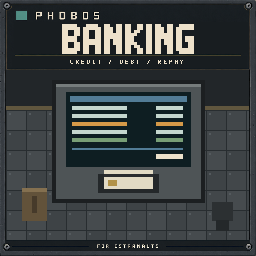
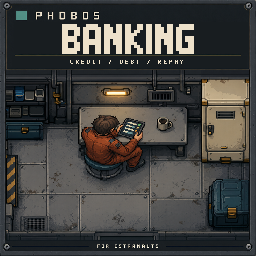
Create PhobosBank Workshop cover

diff --git a/scripts/export-bank-art.py b/scripts/export-bank-art.py
@@ -1,10 +1,10 @@
-"""Draw Phobos Banking's artwork deterministically: the CREDIT PDA icon and the Workshop cover's scene layer.
+"""Draw Phobos Banking's CREDIT PDA icon deterministically.
 
-No image generation and no game asset: every shape is drawn here from fixed coordinates, so the script is the
-master's source. The icon follows the game's own PDA icons (a white disc with a black glyph, 256 pixels square,
-tinted by the game); its master is drawn at 1024 pixels and reduced with Lanczos filtering. The cover scene is a
-244 x 170 pixel layer for scripts/compose-workshop-cover.py, drawn directly at that size in coarse pixel clusters.
-Use --check to compare committed outputs without writing.
+No image generation and no game asset: every icon shape is drawn here from fixed coordinates, so the script is
+the icon's source. The icon follows the game's own PDA icons (a white disc with a black glyph, 256 pixels square,
+tinted by the game); its master is drawn at 1024 pixels and reduced with Lanczos filtering. The Workshop cover's
+scene is generated artwork and is recorded in assets/workshop/composed.json.
+Use --check to compare committed icon outputs without writing.
 """
 import argparse
 import hashlib
@@ -18,9 +18,8 @@ from PIL import Image, ImageDraw
 ROOT = Path(__file__).resolve().parents[1]
 MASTER = 'assets/phobos-bank/Credit-1024.png'
 ICON = 'mods/PhobosBank/images/phobos/bank/Credit.png'
-SCENE = 'assets/workshop/sources/PhobosBank-scene.png'
 RECORD = 'assets/phobos-bank/exports.json'
-MASTER_SIZE, ICON_SIZE, SCENE_SIZE = 1024, 256, (244, 170)
+MASTER_SIZE, ICON_SIZE = 1024, 256
 WHITE, BLACK, CLEAR = (255, 255, 255, 255), (0, 0, 0, 255), (0, 0, 0, 0)
 
 
@@ -40,48 +39,6 @@ def icon_master():
     return image
 
 
-def scene():
-    """A station finance kiosk on a worn deck: a terminal showing ledger rows, one of them late, and a credit chit."""
-    w, h = SCENE_SIZE
-    image = Image.new('RGB', SCENE_SIZE, (52, 58, 62))
-    draw = ImageDraw.Draw(image)
-    # Deck plates with darker seams and a few worn patches.
-    for y in range(0, h, 20):
-        for x in range(0, w, 20):
-            shade = 62 + ((x * 7 + y * 13) // 20) % 3 * 4
-            draw.rectangle((x, y, x + 19, y + 19), fill=(shade, shade + 5, shade + 8))
-            draw.rectangle((x, y, x + 19, y), fill=(40, 45, 48))
-            draw.rectangle((x, y, x, y + 19), fill=(40, 45, 48))
-            draw.rectangle((x + 3, y + 3, x + 4, y + 4), fill=(84, 90, 94))
-    # The bulkhead and the kiosk housing.
-    draw.rectangle((0, 0, w - 1, 37), fill=(34, 38, 41))
-    draw.rectangle((0, 36, w - 1, 39), fill=(96, 86, 62))
-    draw.rectangle((46, 10, 198, 132), fill=(28, 31, 33))
-    draw.rectangle((50, 14, 194, 128), fill=(78, 84, 86))
-    draw.rectangle((50, 14, 194, 16), fill=(118, 124, 124))
-    # The screen: dark glass, a heading bar and ledger rows (pale rows paid, an amber row late).
-    draw.rectangle((60, 22, 184, 96), fill=(14, 30, 34))
-    draw.rectangle((64, 26, 180, 31), fill=(82, 124, 150))
-    rows = [(36, (196, 214, 206)), (44, (196, 214, 206)), (52, (212, 153, 72)), (60, (196, 214, 206)), (68, (120, 158, 118))]
-    for y, colour in rows:
-        draw.rectangle((66, y, 120, y + 3), fill=colour)
-        draw.rectangle((150, y, 176, y + 3), fill=colour)
-    draw.rectangle((66, 78, 176, 79), fill=(82, 124, 150))
-    draw.rectangle((150, 84, 176, 88), fill=(236, 226, 204))
-    # The credit chit in its reader beneath the screen.
-    draw.rectangle((92, 104, 152, 122), fill=(36, 40, 42))
-    draw.rectangle((98, 100, 146, 118), fill=(226, 218, 196))
-    draw.rectangle((98, 104, 146, 106), fill=(42, 44, 46))
-    draw.rectangle((102, 110, 110, 115), fill=(178, 146, 72))
-    # A crate of goods waiting on payment and a stool, for scale.
-    draw.rectangle((16, 118, 40, 150), fill=(98, 82, 58))
-    draw.rectangle((16, 118, 40, 121), fill=(132, 112, 80))
-    draw.rectangle((26, 126, 30, 142), fill=(70, 58, 42))
-    draw.rectangle((206, 132, 226, 150), fill=(44, 48, 50))
-    draw.rectangle((210, 150, 222, 160), fill=(36, 40, 42))
-    return image
-
-
 def png(image):
     buffer = io.BytesIO()
     image.save(buffer, format='PNG', optimize=True)
@@ -95,15 +52,14 @@ def sha256(data):
 def outputs():
     master = icon_master()
     icon = master.resize((ICON_SIZE, ICON_SIZE), Image.LANCZOS)
-    files = {MASTER: png(master), ICON: png(icon), SCENE: png(scene())}
+    files = {MASTER: png(master), ICON: png(icon)}
     record = {
         'schemaVersion': 1,
         'tool': 'scripts/export-bank-art.py',
         'generation': 'none: drawn from fixed shapes by the script, which is the source of record',
         'files': {path: {'sha256': sha256(data), 'bytes': len(data)} for path, data in files.items()},
         'notes': {
-            ICON: 'CREDIT PDA app icon, 256 px like the game\'s own; reduced from the 1024 px master with Lanczos filtering.',
-            SCENE: 'Placeholder scene layer for the held Workshop cover, composed by compose-workshop-cover.py.'
+            ICON: 'CREDIT PDA app icon, 256 px like the game\'s own; reduced from the 1024 px master with Lanczos filtering.'
         }
     }
     files[RECORD] = (json.dumps(record, indent=2) + '\n').encode('utf-8')

diff --git a/assets/workshop/README.md b/assets/workshop/README.md
@@ -1,14 +1,15 @@
 # Workshop preview artwork
 
-Eight coordinated cover illustrations for Phobos Framework, Auto Nav,
-Shipbreaker, Agriculture, Manufacturing, War Has Been Declared, Medical and Spacer Stories. These are promotional illustrations,
+Nine coordinated cover illustrations for Phobos Framework, Auto Nav,
+Shipbreaker, Agriculture, Manufacturing, War Has Been Declared, Medical,
+Spacer Stories and Banking. These are promotional illustrations,
 not gameplay screenshots or a claim of release readiness. Approach Assist and Phobos Scope
 are deliberately outside this set, as selected by the owner on 25 September 2026.
 The owner approved the original four-cover set and requested native-menu integration on the same day.
 
-The design connects each mod to the project's ambition of longer habitation in
-hostile space: shared dependable systems, careful navigation, material recovery
-and cultivation. It does not promise unlimited resources or perfect recycling.
+The designs connect different parts of life aboard: dependable systems, careful
+navigation, material recovery, cultivation, medical care, personal finances and
+crew stories. They do not promise unlimited resources or perfect recycling.
 
 ![The original four Phobos Workshop covers](previews/collection.png)
 
@@ -22,6 +23,7 @@ and cultivation. It does not promise unlimited resources or perfect recycling.
 | Phobos' War Has Been Declared | [512px](previews/PhobosWarDeclared-512.png) | [256px](previews/PhobosWarDeclared-256.png) | A torn hull with pale-blue build sites laid where parts were lost and two crew carrying a panel; composed cover (see below). An illustration of the idea, not a screenshot. |
 | Phobos Medical | [512px](previews/PhobosMedical-512.png) | [256px](previews/PhobosMedical-256.png) | A spacer resting in the Halewright Ward-3; REST / RECOVER / RETURN. Original promotional art, with no additional treatment claim. |
 | Phobos Spacer Stories | [512px](previews/PhobosSpacerStories-512.png) | [256px](previews/PhobosSpacerStories-256.png) | Two spacers sharing a story at a mess table, with correspondence, a terminal and a data card; READ / REMEMBER / RETELL. |
+| Phobos Banking | [512px](previews/PhobosBank-512.png) | [256px](previews/PhobosBank-256.png) | A working spacer checks the debt overview on their PDA; CREDIT / DEBT / REPAY. Original promotional art, not a gameplay screenshot. |
 
 ## Files and branches
 
@@ -65,15 +67,23 @@ its artwork; no affiliation or endorsement is implied. No extracted game texture
 game screenshot, third-party mod sprite or official logo was supplied to the
 generator or included in these covers.
 
-These complex cover compositions use ChatGPT's built-in image generation under
-the [asset policy's complex-art provision](../../docs/development/asset-generation-policy.md).
-PixelLab remains preferred for simple pixel assets. Its allowance was checked,
-but no PixelLab generation or credit purchase was made for this set. The built-in
-tool does not disclose a model revision, seed or per-image price; none is invented.
-Exact prompts, result identifiers and hashes are retained with this asset family.
-Generated imagery is original commissioned project artwork, subject to applicable
-[OpenAI terms](https://openai.com/policies/terms-of-use/); that provenance is not
-an independent guarantee of exclusive rights. No new licence is assigned here.
+The covers have mixed generated-art provenance. OpenAI's built-in image generation
+was used for the original covers, Medical and Spacer Stories; PixelLab produced the
+Manufacturing and War Has Been Declared scene layers. The Banking scene was generated
+with OpenAI's gpt-image-2 Image API through the bundled fallback CLI. Its exact
+prompt, input reference roles, model, source hashes and image-use record are in the
+[composition manifest](composed.json). The two style references were existing
+Phobos cover scenes; no game-derived artwork, screenshots, third-party mod sprites
+or official logos were supplied.
+
+OpenAI's [Services Agreement, sections 4.1 and 4.4](https://openai.com/policies/services-agreement/)
+states that API customers own Output, with OpenAI assigning any rights it has,
+subject to applicable law, and that Output may not be unique. This records the
+provider terms; it does not promise exclusivity. The CLI did not expose a request
+ID, seed or billed amount, so none is invented. The prior ElevenLabs Banking scene
+was commercially licensed per owner confirmation, but superseded at the owner's
+request and preserved with its original prompt and hash in the
+[rejected-artwork archive](../rejected-artwork-archive.md).
 
 Only mechanical nearest-neighbour resizing is applied to the masters. Typography
 is baked into this English-language promotional artwork, separate from the live
@@ -183,6 +193,34 @@ scene and thumbnail were visually checked; the 512px export is **553,381 bytes**
 The original four-cover exports and review sheet are unchanged. Ordinary builds
 include the committed preview and packaged provenance without needing the master
 branch. Creating this artwork does not install or publish the mod.
+
+## Banking: a composed cover
+
+On **7 October 2026**, OpenAI's gpt-image-2 Image API, through the bundled
+fallback CLI, generated one **1536 x 1072** cabin scene. The spacer checks a
+handheld debt ledger in the restrained overhead pixel-art treatment used by the
+vanilla game and the other Phobos covers. Existing Manufacturing and Medical
+scene layers were style references only; no game artwork or screenshots were
+provided. The unchanged master is on codex/workshop-art-masters, commit
+0eb04af487bd13ddcfb200a2c80ed19f5fd644ad, at
+assets/workshop/masters/PhobosBank-scene.png. The exact prompt, reference roles,
+master hash and OpenAI terms review are in [the composition manifest](composed.json).
+
+The composer reduces the full master to **304 x 170** with nearest-neighbour
+sampling, then takes a centred **244 x 170** crop for the cover scene. It reuses
+the existing Phobos frame, title and CREDIT / DEBT / REPAY subtitle, and writes
+both preview sizes plus mods/PhobosBank/preview.png. The 512px cover and 256px
+thumbnail were visually checked, including the PDA and title at small size. The
+scene illustrates a spacer reading their own debts; it is not a gameplay screenshot
+or evidence of in-game readiness. The cover and mod remain held for owner gameplay
+checks; creating the artwork does not publish the mod.
+
+The superseded **1920 x 1072** ElevenLabs scene is preserved on
+codex/rejected-artwork, with its request, archive reason and SHA-256 recorded in
+[the rejected-artwork archive](../rejected-artwork-archive.md) and
+[the composition manifest](composed.json). The owner confirmed a commercial
+license for that earlier generation; it was replaced solely because the owner
+asked for this OpenAI-generated, vanilla-style scene.
 
 ## Native-menu integration
 

diff --git a/assets/rejected-artwork-archive.md b/assets/rejected-artwork-archive.md
@@ -1,5 +1,17 @@
 # Rejected artwork archive
 
+## Banking cover refinement, 7 October 2026
+
+The first Phobos Banking scene, generated by ElevenLabs Creative Studio, was
+superseded when the owner requested a new OpenAI scene in the game's overhead
+pixel-art style. Its unchanged master was verified byte for byte in commit
+0def38b006d203ee7c733c7f65e444ce1628cb7b on codex/rejected-artwork. The owner
+confirmed commercial licensing for that generation; licensing was not the reason
+for replacement. The original prompt, provider record, reason and hash are retained
+in [the Banking composition manifest](workshop/composed.json) and the machine-readable
+inventory below. The [archived image](https://github.com/phobos-dthorga/phobos-ostranauts/blob/0def38b006d203ee7c733c7f65e444ce1628cb7b/assets/workshop/sources/PhobosBank-elevenlabs-rejected.png)
+is pinned to that commit.
+
 ## Support machinery follow-up, 5 October 2026
 
 Commit `bccf43af5b5e215cfeca10e1d24d869bfc5e1c46` preserves the three

diff --git a/mods/PhobosBank/CHANGELOG.md b/mods/PhobosBank/CHANGELOG.md
@@ -5,6 +5,10 @@ not Steam publication.
 
 ## [Unreleased]
 
+### Changed
+
+- Replaced the placeholder Workshop cover scene with an original overhead pixel-art illustration of a spacer checking a debt overview on their PDA. The cover does not change gameplay.
+
 ## [0.3.0] - 2026-10-07 - Draft
 
 ### Added
